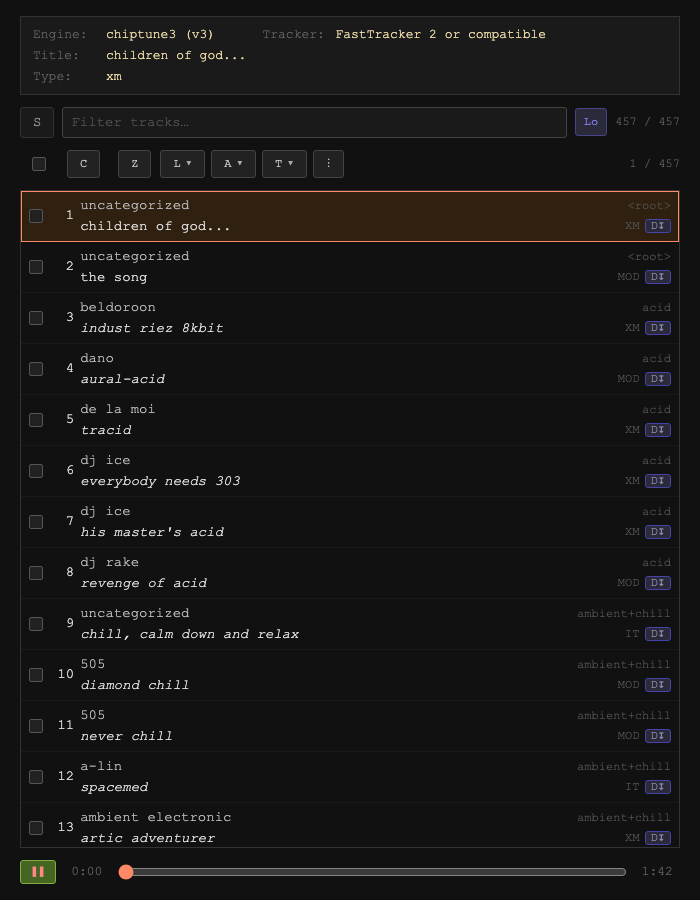
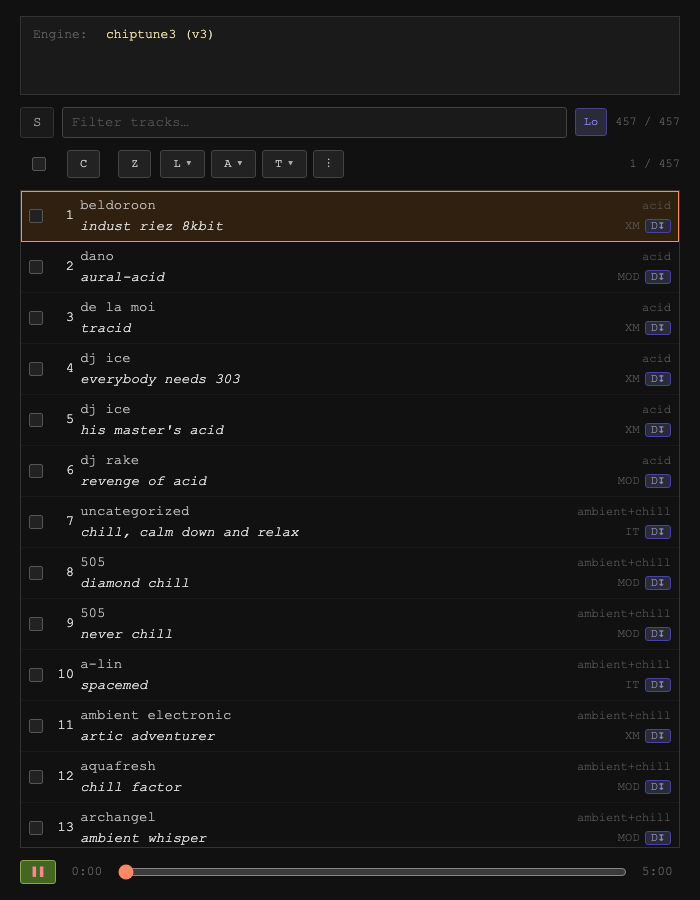
user playlists

diff --git a/js/playlist-overlay.js b/js/playlist-overlay.js
@@ -32,7 +32,7 @@ export function closePlaylistOverlay() {
 
 function buildEditorFilterCombo(lists) {
   const options = [
-    { id: '__all__', label: 'All user playlists' },
+    { id: '__all__', label: 'Edit…' },
     ...lists.map(pl => ({ id: pl.id, label: pl.name })),
   ];
 
@@ -204,7 +204,7 @@ async function render() {
   toolbar.id = 'pm-toolbar';
 
   const newBtn = document.createElement('button');
-  newBtn.type = 'button'; newBtn.id = 'pm-new-btn'; newBtn.textContent = '+ New playlist';
+  newBtn.type = 'button'; newBtn.id = 'pm-new-btn'; newBtn.textContent = '+';
   newBtn.addEventListener('click', createNew);
   toolbar.appendChild(newBtn);
   toolbar.appendChild(buildEditorFilterCombo(lists));
@@ -215,7 +215,7 @@ async function render() {
   visBtn.type = 'button';
   visBtn.id = 'pm-visible-btn';
   visBtn.className = 'pm-btn';
-  visBtn.textContent = 'Visible lists ▾';
+  visBtn.textContent = 'Visibility ▾';
   visBtn.addEventListener('click', (e) => {
     e.stopPropagation();
     _visibilityPanelOpen = !_visibilityPanelOpen;

diff --git a/doc/README.md b/doc/README.md
@@ -3,7 +3,7 @@
 <!-- AUTO:DOC_META:START -->
 | Version | Updated |
 |:--|:--|
-| 0.9.8-1 | 2026-05-03 16:46 |
+| 0.9.8-2 | 2026-05-03 17:06 |
 <!-- AUTO:DOC_META:END -->
 
 A browser-based player for classic tracker module formats (MOD, XM, S3M, IT, AHX, SID) with local file lists and Modland search.
@@ -41,13 +41,13 @@ Description of the UI elements from the screenshot.
 | 18 | Options | #help-btn |
 | 19 | Track number / total found | #track-pos |
 | 20 | Toggle all, none, or restore track selection | #sel-bulk-cb |
-| 21 | Track artist | body > div#player > ul#playlist > li.current > div.row-top > span.artist |
-| 22 | Track group | body > div#player > ul#playlist > li.current > div.row-top > span.folder |
-| 23 | Track index | html > body > div#player > ul#playlist > li.current > span.idx |
-| 24 | Track selector checkbox | html > body > div#player > ul#playlist > li.current > input.sel-cb |
-| 25 | Track title | body > div#player > ul#playlist > li.current > div.row-bot > span.title |
-| 26 | Track format | body > div#player > ul#playlist > li.current > div.row-bot > span.ext |
-| 27 | Download track | body > div#player > ul#playlist > li.current > div.row-bot > button.r-dl |
+| 21 | Track artist | body > div#player > ul#playlist > li.remote > div.row-top > span.artist |
+| 22 | Track group | body > div#player > ul#playlist > li.remote > div.row-top > span.folder |
+| 23 | Track index | html > body > div#player > ul#playlist > li.remote > span.idx |
+| 24 | Track selector checkbox | html > body > div#player > ul#playlist > li.remote > input.sel-cb |
+| 25 | Track title | body > div#player > ul#playlist > li.remote > div.row-bot > span.title |
+| 26 | Track format | body > div#player > ul#playlist > li.remote > div.row-bot > span.ext |
+| 27 | Download track | body > div#player > ul#playlist > li.remote > div.row-bot > button.r-dl |
 | 28 | Play / Pause | #btn-play |
 | 29 | Track Time | #time |
 | 30 | Track Length | #duration |

diff --git a/README.md b/README.md
@@ -3,7 +3,7 @@
 <!-- AUTO:DOC_META:START -->
 | Version | Updated |
 |:--|:--|
-| 0.9.8-1 | 2026-05-03 16:46 |
+| 0.9.8-2 | 2026-05-03 17:06 |
 <!-- AUTO:DOC_META:END -->
 
 A single-page browser-based chiptune player for the golden age of demoscene music, from C64 SID chips to Amiga tracker modules. It includes built-in local playlists and instant access to the Modland archive with 225K+ compatible tracker modules. Results can be narrowed with smart filters, and you can build your own custom lists from what you find.